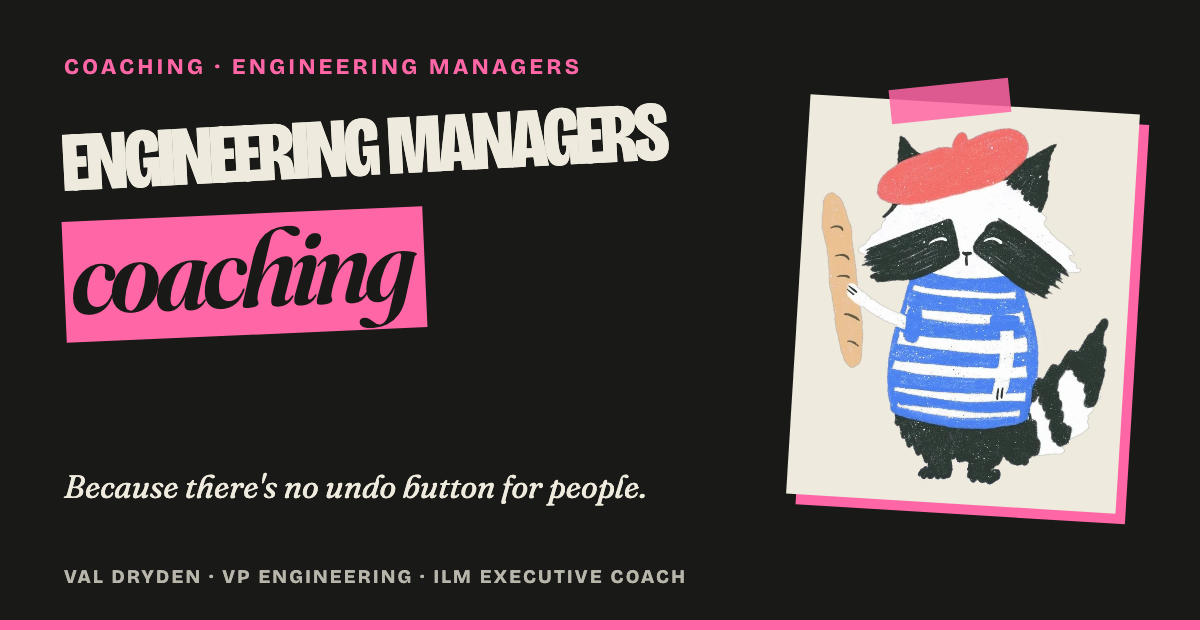
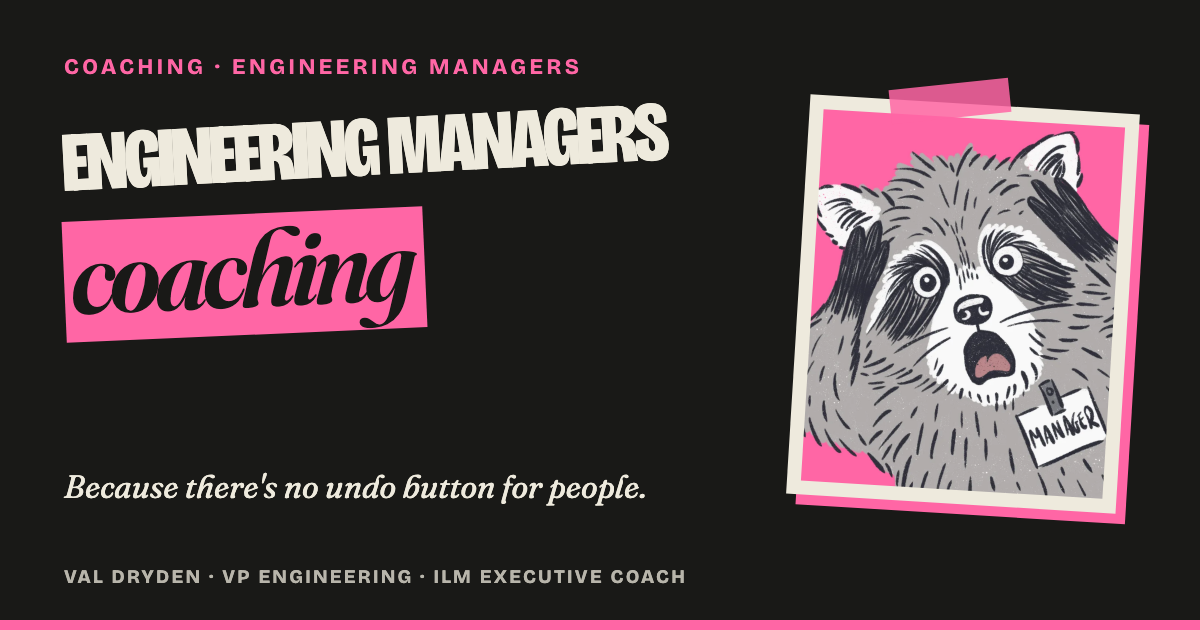
OG: EM card uses badged racoon

Changed region(s): [[0.6475, 0.1508, 0.9558, 0.8143]]

diff --git a/_og/build.py b/_og/build.py
@@ -14,7 +14,7 @@ IMGS = {
 PAGES = [
   dict(slug="default", kicker="Outraged Racoon Coaching", l1="Outraged", l2="Racoon", sub="No-bullshit coaching for the messy, human, hard parts of working in tech.", img="scream", foot="Val Dryden · VP Engineering · ILM executive coach"),
   dict(slug="home", kicker="1:1 coaching · for the hard parts of tech", l1="No-bullshit", l2="coaching", sub="for engineering managers and folks in tech.", img="scream", foot="Val Dryden · VP Engineering · ILM executive coach"),
-  dict(slug="engineering-managers", kicker="Coaching · engineering managers", l1="Engineering managers", size="84", l2="coaching", sub="Because there's no undo button for people.", img="beret", foot="Val Dryden · VP Engineering · ILM executive coach"),
+  dict(slug="engineering-managers", kicker="Coaching · engineering managers", l1="Engineering managers", size="84", l2="coaching", sub="Because there's no undo button for people.", img="hsiam", foot="Val Dryden · VP Engineering · ILM executive coach"),
   dict(slug="folks-in-tech", kicker="Coaching · folks in tech", l1="Coaching for", l2="folks in tech", sub="More power, more credit, less bullshit.", img="scream", foot="Val Dryden · VP Engineering · ILM executive coach"),
   dict(slug="course", kicker="Online course · engineering management first aid", l1="Holy shit,", l2="I'm a Manager!", sub="52+ lessons for new engineering managers. Direct access to Val.", img="hsiam", foot="Outraged Racoon Coaching · £400"),
 ]
